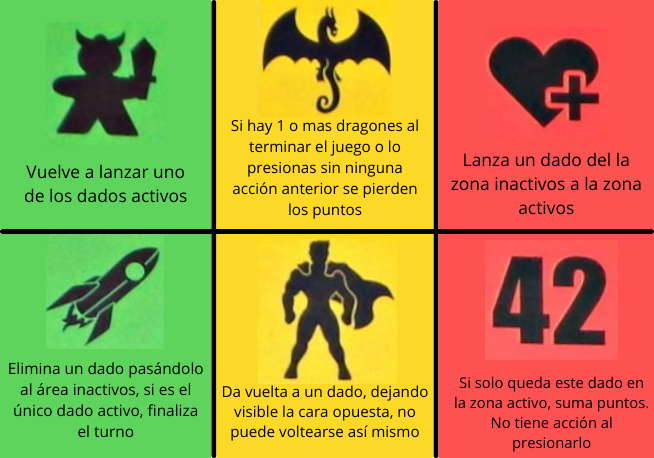
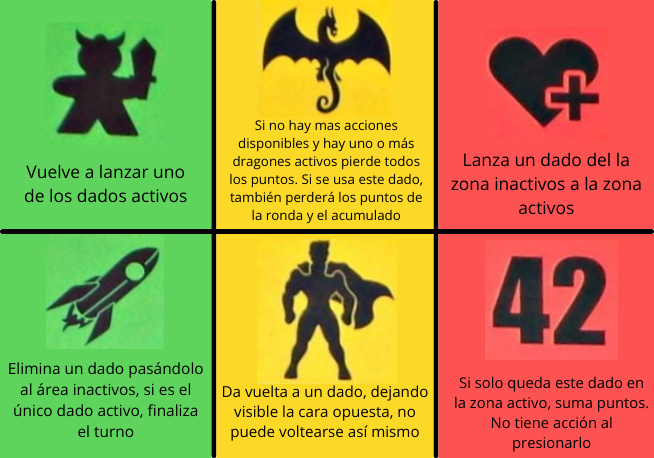
Actualizacion del mensaje salida help

Changed region(s): [[0.3364, 0.2445, 0.6422, 0.4891]]

diff --git a/src/myProject/GUI.java b/src/myProject/GUI.java
@@ -21,11 +21,9 @@ public class GUI extends JFrame{
             "-> BRAYAN STIVEN SANCHEZ LEON\n" +
             "-> MAYRA ALEJANDRA SANCHEZ SALINAS";
 
-    public  static final String AYUDA="-> De los 10 dados que trae el juego se toman 3 y se colocan en el sector de \"Dados Inactivos\". Los otros 7\n" +
-            "dados se tiran y pasan a ser los \"Dados Activos\".\n" +
-            "-> Se van eligiendo los dados a utilizar según las habilidades de sus caras y se pasan al sector de \"Dados\n" +
-            "Utilizados\".\n" +
-            "-> Si como último dado activo queda un Dragón, se perderán todos los puntos acumulados.\n" +
+    public  static final String AYUDA="-> De los 10 dados que trae el juego se toman 3 y se colocan en el sector de \"Dados Inactivos\". Los otros 7 dados se tiran y pasan a ser los \"Dados Activos\"\n" +
+            "-> Se van eligiendo los dados a utilizar según las habilidades de sus caras y se pasan al sector de \"Dados Utilizados\"\n" +
+            "-> Si no hay más acciones disponibles y hay uno o más dragones activos pierde todos los puntos. Si usa este dado también perderá todos los puntos de la ronda y acumulados \n" +
             "-> Este juego lo jugará un único jugador y ganará si logra sumar 30 puntos en 5 rondas consecutivas de juego. ";
 
     private Header headerProject;
